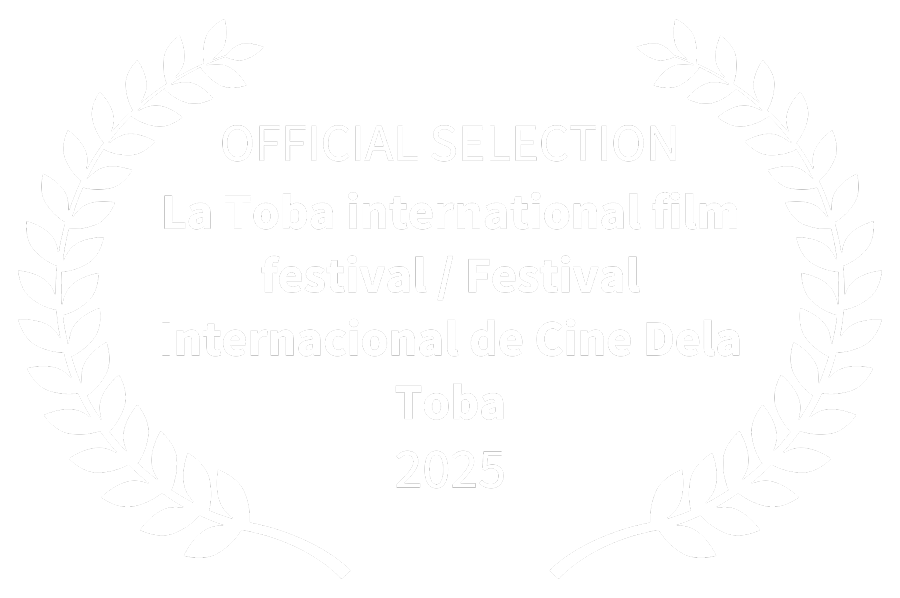
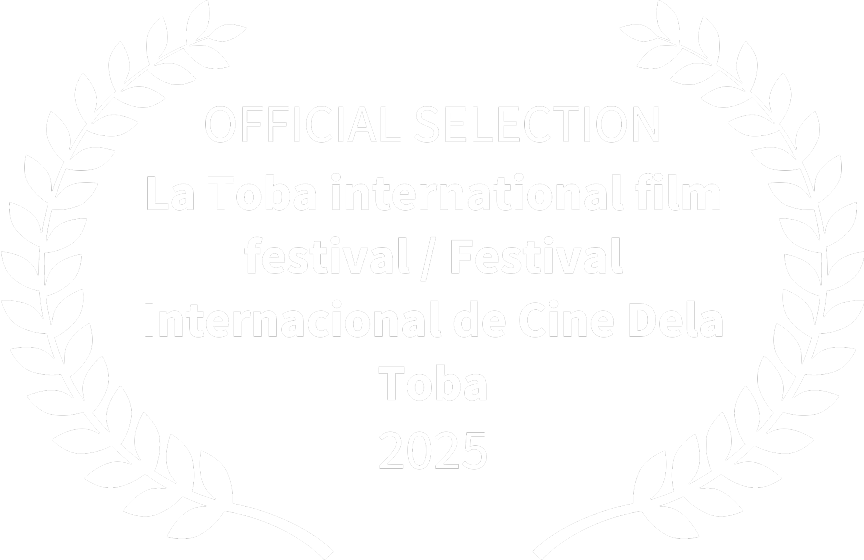
Laureles: recortar el espacio transparente de cada PNG para que todos midan lo mismo de alto
Misma altura visual para todos (la de La Toba), el ancho depende de cada
festival. Antes los PNG traian margenes distintos y se veian desiguales.

diff --git a/public/assets/js/data.js b/public/assets/js/data.js
@@ -304,11 +304,11 @@ window.PROYECTOS = {
       'assets/img/still-4.jpg', 'assets/img/still-5.jpg', 'assets/img/still-6.jpg'
     ],
     laureles: [
-      { src: 'assets/img/laurel-shortsmx.png', alt: 'Shorts México 21 — Official Selection' },
-      { src: 'assets/img/laurel-latoba.png',   alt: 'Official Selection — La Toba International Film Festival 2025' },
-      { src: 'assets/img/laurel-stuffmx.png',  alt: 'Official Selection — STUFF MX Film Festival 2026' },
-      { src: 'assets/img/laurel-parana.png',   alt: 'Paraná Internacional Films Festival — Competición Oficial 2026' },
-      { src: 'assets/img/laurel-fict.png',     alt: 'FICT 2026' }
+      { src: 'assets/img/laurel-shortsmx.png?v=2', alt: 'Shorts México 21 — Official Selection' },
+      { src: 'assets/img/laurel-latoba.png?v=2',   alt: 'Official Selection — La Toba International Film Festival 2025' },
+      { src: 'assets/img/laurel-stuffmx.png?v=2',  alt: 'Official Selection — STUFF MX Film Festival 2026' },
+      { src: 'assets/img/laurel-parana.png?v=2',   alt: 'Paraná Internacional Films Festival — Competición Oficial 2026' },
+      { src: 'assets/img/laurel-fict.png?v=2',     alt: 'FICT 2026' }
     ],
     festivales: [
       { nombre: 'Shorts México 21',                  seccion: 'sec.oficial', anio: '2026' },

diff --git a/public/contacto.html b/public/contacto.html
@@ -9,7 +9,7 @@
 <link rel="preconnect" href="https://fonts.googleapis.com">
 <link rel="preconnect" href="https://fonts.gstatic.com" crossorigin>
 <link href="https://fonts.googleapis.com/css2?family=Bricolage+Grotesque:opsz,wght@12..96,200..800&display=swap" rel="stylesheet">
-<link rel="stylesheet" href="assets/css/site.css?v=1791245542">
+<link rel="stylesheet" href="assets/css/site.css?v=1791245628">
 </head>
 <body class="page has-bg">
 
@@ -109,9 +109,9 @@
   </span>
 </footer>
 
-<script src="assets/js/i18n.js?v=1791245542"></script>
-<script src="assets/js/data.js?v=1791245542"></script>
-<script src="assets/js/site.js?v=1791245542"></script>
+<script src="assets/js/i18n.js?v=1791245628"></script>
+<script src="assets/js/data.js?v=1791245628"></script>
+<script src="assets/js/site.js?v=1791245628"></script>
 <script>document.getElementById('year').textContent = new Date().getFullYear();</script>
 <script>
 /* Envío por AJAX a Netlify (si el sitio ya está desplegado ahí);

diff --git a/public/cine.html b/public/cine.html
@@ -9,7 +9,7 @@
 <link rel="preconnect" href="https://fonts.googleapis.com">
 <link rel="preconnect" href="https://fonts.gstatic.com" crossorigin>
 <link href="https://fonts.googleapis.com/css2?family=Bricolage+Grotesque:opsz,wght@12..96,200..800&display=swap" rel="stylesheet">
-<link rel="stylesheet" href="assets/css/site.css?v=1791245542">
+<link rel="stylesheet" href="assets/css/site.css?v=1791245628">
 </head>
 <body class="page">
 
@@ -109,9 +109,9 @@
 </footer>
 
 <script src="https://player.vimeo.com/api/player.js"></script>
-<script src="assets/js/i18n.js?v=1791245542"></script>
-<script src="assets/js/data.js?v=1791245542"></script>
-<script src="assets/js/site.js?v=1791245542"></script>
+<script src="assets/js/i18n.js?v=1791245628"></script>
+<script src="assets/js/data.js?v=1791245628"></script>
+<script src="assets/js/site.js?v=1791245628"></script>
 <script>document.getElementById('year').textContent = new Date().getFullYear();</script>
 </body>
 </html>

diff --git a/public/index.html b/public/index.html
@@ -9,7 +9,7 @@
 <link rel="preconnect" href="https://fonts.googleapis.com">
 <link rel="preconnect" href="https://fonts.gstatic.com" crossorigin>
 <link href="https://fonts.googleapis.com/css2?family=Bricolage+Grotesque:opsz,wght@12..96,200..800&display=swap" rel="stylesheet">
-<link rel="stylesheet" href="assets/css/site.css?v=1791245542">
+<link rel="stylesheet" href="assets/css/site.css?v=1791245628">
 </head>
 <body class="home">
 
@@ -79,8 +79,8 @@
   <span class="right hint-mobile" data-i18n="home.hint.mobile">El video se reproduce al hacer scroll</span>
 </footer>
 
-<script src="assets/js/i18n.js?v=1791245542"></script>
-<script src="assets/js/data.js?v=1791245542"></script>
-<script src="assets/js/site.js?v=1791245542"></script>
+<script src="assets/js/i18n.js?v=1791245628"></script>
+<script src="assets/js/data.js?v=1791245628"></script>
+<script src="assets/js/site.js?v=1791245628"></script>
 </body>
 </html>

diff --git a/public/sobre.html b/public/sobre.html
@@ -9,7 +9,7 @@
 <link rel="preconnect" href="https://fonts.googleapis.com">
 <link rel="preconnect" href="https://fonts.gstatic.com" crossorigin>
 <link href="https://fonts.googleapis.com/css2?family=Bricolage+Grotesque:opsz,wght@12..96,200..800&display=swap" rel="stylesheet">
-<link rel="stylesheet" href="assets/css/site.css?v=1791245542">
+<link rel="stylesheet" href="assets/css/site.css?v=1791245628">
 </head>
 <body class="page has-bg">
 
@@ -92,9 +92,9 @@
   </span>
 </footer>
 
-<script src="assets/js/i18n.js?v=1791245542"></script>
-<script src="assets/js/data.js?v=1791245542"></script>
-<script src="assets/js/site.js?v=1791245542"></script>
+<script src="assets/js/i18n.js?v=1791245628"></script>
+<script src="assets/js/data.js?v=1791245628"></script>
+<script src="assets/js/site.js?v=1791245628"></script>
 <script>document.getElementById('year').textContent = new Date().getFullYear();</script>
 </body>
 </html>

diff --git a/public/its-time-for-dinner.html b/public/its-time-for-dinner.html
@@ -9,7 +9,7 @@
 <link rel="preconnect" href="https://fonts.googleapis.com">
 <link rel="preconnect" href="https://fonts.gstatic.com" crossorigin>
 <link href="https://fonts.googleapis.com/css2?family=Bricolage+Grotesque:opsz,wght@12..96,200..800&display=swap" rel="stylesheet">
-<link rel="stylesheet" href="assets/css/site.css?v=1791245542">
+<link rel="stylesheet" href="assets/css/site.css?v=1791245628">
 </head>
 <body class="page">
 
@@ -138,9 +138,9 @@
   </span>
 </footer>
 
-<script src="assets/js/i18n.js?v=1791245542"></script>
-<script src="assets/js/data.js?v=1791245542"></script>
-<script src="assets/js/site.js?v=1791245542"></script>
+<script src="assets/js/i18n.js?v=1791245628"></script>
+<script src="assets/js/data.js?v=1791245628"></script>
+<script src="assets/js/site.js?v=1791245628"></script>
 <script>document.getElementById('year').textContent = new Date().getFullYear();</script>
 </body>
 </html>

diff --git a/public/los-idiotas.html b/public/los-idiotas.html
@@ -9,7 +9,7 @@
 <link rel="preconnect" href="https://fonts.googleapis.com">
 <link rel="preconnect" href="https://fonts.gstatic.com" crossorigin>
 <link href="https://fonts.googleapis.com/css2?family=Bricolage+Grotesque:opsz,wght@12..96,200..800&display=swap" rel="stylesheet">
-<link rel="stylesheet" href="assets/css/site.css?v=1791245542">
+<link rel="stylesheet" href="assets/css/site.css?v=1791245628">
 </head>
 <body class="page">
 
@@ -145,9 +145,9 @@
   </span>
 </footer>
 
-<script src="assets/js/i18n.js?v=1791245542"></script>
-<script src="assets/js/data.js?v=1791245542"></script>
-<script src="assets/js/site.js?v=1791245542"></script>
+<script src="assets/js/i18n.js?v=1791245628"></script>
+<script src="assets/js/data.js?v=1791245628"></script>
+<script src="assets/js/site.js?v=1791245628"></script>
 <script>document.getElementById('year').textContent = new Date().getFullYear();</script>
 </body>
 </html>

diff --git a/public/no-drugs-no-dancing.html b/public/no-drugs-no-dancing.html
@@ -9,7 +9,7 @@
 <link rel="preconnect" href="https://fonts.googleapis.com">
 <link rel="preconnect" href="https://fonts.gstatic.com" crossorigin>
 <link href="https://fonts.googleapis.com/css2?family=Bricolage+Grotesque:opsz,wght@12..96,200..800&display=swap" rel="stylesheet">
-<link rel="stylesheet" href="assets/css/site.css?v=1791245542">
+<link rel="stylesheet" href="assets/css/site.css?v=1791245628">
 </head>
 <body class="page">
 
@@ -138,9 +138,9 @@
   </span>
 </footer>
 
-<script src="assets/js/i18n.js?v=1791245542"></script>
-<script src="assets/js/data.js?v=1791245542"></script>
-<script src="assets/js/site.js?v=1791245542"></script>
+<script src="assets/js/i18n.js?v=1791245628"></script>
+<script src="assets/js/data.js?v=1791245628"></script>
+<script src="assets/js/site.js?v=1791245628"></script>
 <script>document.getElementById('year').textContent = new Date().getFullYear();</script>
 </body>
 </html>

diff --git a/public/their-circle.html b/public/their-circle.html
@@ -9,7 +9,7 @@
 <link rel="preconnect" href="https://fonts.googleapis.com">
 <link rel="preconnect" href="https://fonts.gstatic.com" crossorigin>
 <link href="https://fonts.googleapis.com/css2?family=Bricolage+Grotesque:opsz,wght@12..96,200..800&display=swap" rel="stylesheet">
-<link rel="stylesheet" href="assets/css/site.css?v=1791245542">
+<link rel="stylesheet" href="assets/css/site.css?v=1791245628">
 </head>
 <body class="page">
 
@@ -138,9 +138,9 @@
   </span>
 </footer>
 
-<script src="assets/js/i18n.js?v=1791245542"></script>
-<script src="assets/js/data.js?v=1791245542"></script>
-<script src="assets/js/site.js?v=1791245542"></script>
+<script src="assets/js/i18n.js?v=1791245628"></script>
+<script src="assets/js/data.js?v=1791245628"></script>
+<script src="assets/js/site.js?v=1791245628"></script>
 <script>document.getElementById('year').textContent = new Date().getFullYear();</script>
 </body>
 </html>

diff --git a/public/ximoquetza.html b/public/ximoquetza.html
@@ -9,7 +9,7 @@
 <link rel="preconnect" href="https://fonts.googleapis.com">
 <link rel="preconnect" href="https://fonts.gstatic.com" crossorigin>
 <link href="https://fonts.googleapis.com/css2?family=Bricolage+Grotesque:opsz,wght@12..96,200..800&display=swap" rel="stylesheet">
-<link rel="stylesheet" href="assets/css/site.css?v=1791245542">
+<link rel="stylesheet" href="assets/css/site.css?v=1791245628">
 </head>
 <body class="page">
 
@@ -135,9 +135,9 @@
   </span>
 </footer>
 
-<script src="assets/js/i18n.js?v=1791245542"></script>
-<script src="assets/js/data.js?v=1791245542"></script>
-<script src="assets/js/site.js?v=1791245542"></script>
+<script src="assets/js/i18n.js?v=1791245628"></script>
+<script src="assets/js/data.js?v=1791245628"></script>
+<script src="assets/js/site.js?v=1791245628"></script>
 <script>document.getElementById('year').textContent = new Date().getFullYear();</script>
 </body>
 </html>

diff --git a/public/fotografia.html b/public/fotografia.html
@@ -9,7 +9,7 @@
 <link rel="preconnect" href="https://fonts.googleapis.com">
 <link rel="preconnect" href="https://fonts.gstatic.com" crossorigin>
 <link href="https://fonts.googleapis.com/css2?family=Bricolage+Grotesque:opsz,wght@12..96,200..800&display=swap" rel="stylesheet">
-<link rel="stylesheet" href="assets/css/site.css?v=1791245542">
+<link rel="stylesheet" href="assets/css/site.css?v=1791245628">
 </head>
 <body class="page">
 
@@ -66,9 +66,9 @@
   </span>
 </footer>
 
-<script src="assets/js/i18n.js?v=1791245542"></script>
-<script src="assets/js/data.js?v=1791245542"></script>
-<script src="assets/js/site.js?v=1791245542"></script>
+<script src="assets/js/i18n.js?v=1791245628"></script>
+<script src="assets/js/data.js?v=1791245628"></script>
+<script src="assets/js/site.js?v=1791245628"></script>
 <script>document.getElementById('year').textContent = new Date().getFullYear();</script>
 </body>
 </html>

diff --git a/public/post.html b/public/post.html
@@ -9,7 +9,7 @@
 <link rel="preconnect" href="https://fonts.googleapis.com">
 <link rel="preconnect" href="https://fonts.gstatic.com" crossorigin>
 <link href="https://fonts.googleapis.com/css2?family=Bricolage+Grotesque:opsz,wght@12..96,200..800&display=swap" rel="stylesheet">
-<link rel="stylesheet" href="assets/css/site.css?v=1791245542">
+<link rel="stylesheet" href="assets/css/site.css?v=1791245628">
 </head>
 <body class="page">
 
@@ -89,9 +89,9 @@
   </span>
 </footer>
 
-<script src="assets/js/i18n.js?v=1791245542"></script>
-<script src="assets/js/data.js?v=1791245542"></script>
-<script src="assets/js/site.js?v=1791245542"></script>
+<script src="assets/js/i18n.js?v=1791245628"></script>
+<script src="assets/js/data.js?v=1791245628"></script>
+<script src="assets/js/site.js?v=1791245628"></script>
 <script>document.getElementById('year').textContent = new Date().getFullYear();</script>
 </body>
 </html>
